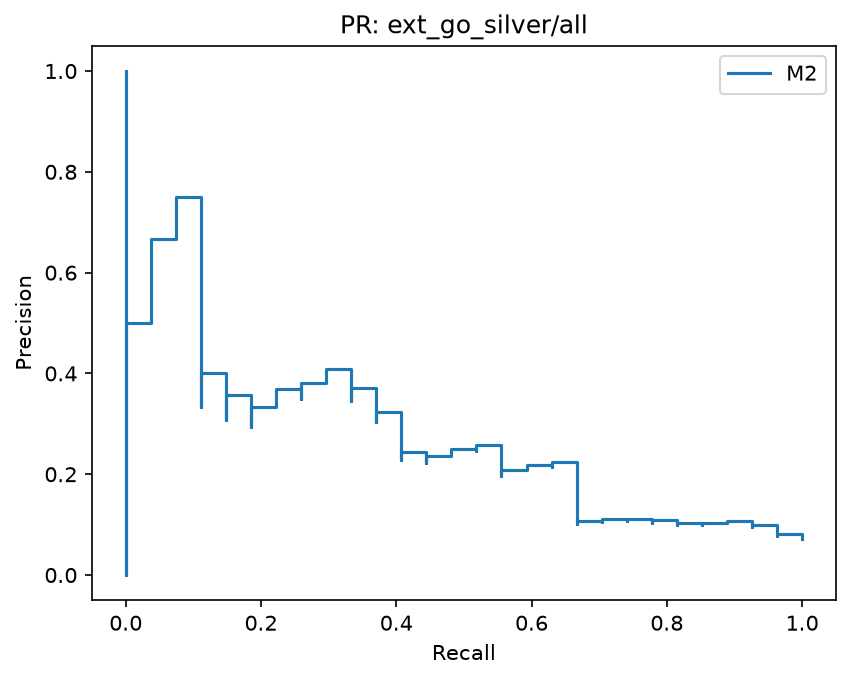
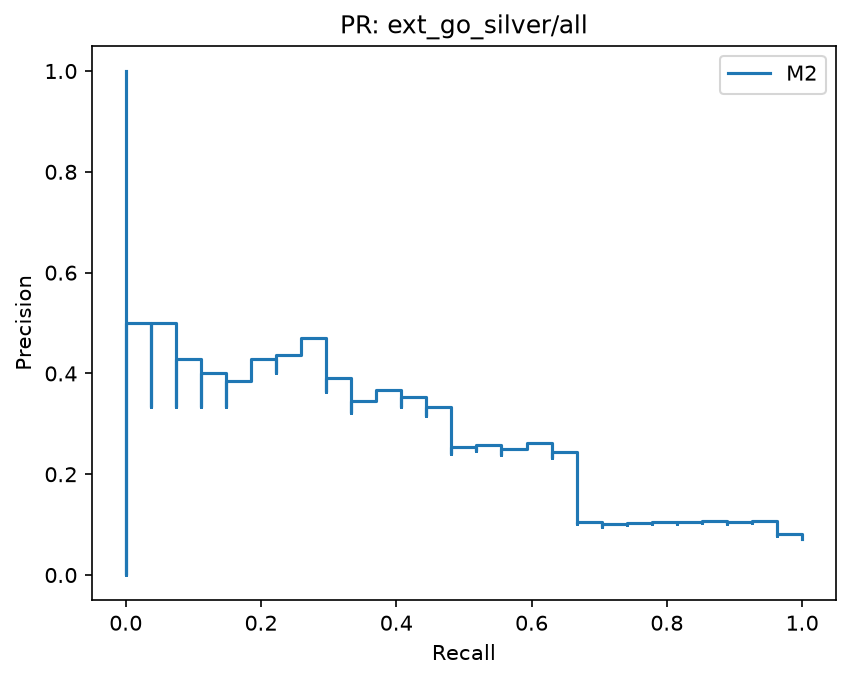
fix(data): CI без gdown, чистая Go-сигнатура, каппа без warning
- download_cocc: ленивый импорт gdown, CI падал на сборе тестов.
- external_adapter: generic_pair принимает sig_old, Go пишет чистую AST-сигнатуру; M2 Go репредикт 380: recall 0.111-0.333, F1 0.171-0.353.
- combine_go: каппа nan при одном классе без warning.

Refs: FD-39

diff --git a/scripts/combine_go.py b/scripts/combine_go.py
@@ -13,7 +13,7 @@ reports/go_full381_disputes.csv (споры + тексты для ручного
 reports/go_full381_disputes_blind.csv (--export-blind: строго слепой файл споров:
 id,file,symbol,sig_old,diff_code,doc_old + пустые label/stale_statement/why;
 без прокси/меток/скоров),
-каппа Коэна (4-класс и бинарная A/B→1, C→0; строки с D из бинарной исключаются
+каппа Коэна (4-класс и бинарная A/B->1, C->0; строки с D из бинарной исключаются
 со счётчиком и WARNING).
 Порог согласия >= 0.7 — критерий приёмки, иначе ненулевой exit-код.
 Доля D у каждого судьи должна быть < 10%, иначе WARNING.
@@ -200,8 +200,10 @@ def main() -> int:
             print(f"доля D у {tag}: {frac:.3f} ({n_d}/{len(combined)})")
     try:
         from sklearn.metrics import cohen_kappa_score
-        k4 = cohen_kappa_score(combined["spark"].tolist(),
-                              combined["gemini"].tolist(), labels=list(VALID))
+        classes_present = set(combined["spark"].tolist()) | set(combined["gemini"].tolist())
+        k4 = (cohen_kappa_score(combined["spark"].tolist(),
+                               combined["gemini"].tolist(), labels=list(VALID))
+              if len(classes_present) > 1 else float("nan"))
         bmap = {"A": 1, "B": 1, "C": 0}
         n_drop_d = int(((~combined["spark"].isin(bmap)) |
                         (~combined["gemini"].isin(bmap))).sum())
@@ -210,8 +212,9 @@ def main() -> int:
                   f"(бинарная шкала A/B->1, C->0; D — не консенсус)")
         pairs = [(bmap[s], bmap[g]) for s, g in
                  zip(combined["spark"], combined["gemini"]) if s in bmap and g in bmap]
+        labels_present = {p[0] for p in pairs} | {p[1] for p in pairs}
         kb = (cohen_kappa_score([p[0] for p in pairs], [p[1] for p in pairs], labels=[0, 1])
-              if pairs else float("nan"))
+              if len(labels_present) > 1 else float("nan"))
         print(f"spark-vs-gemini: n={len(combined)}, согласие {agree:.3f}, "
               f"kappa4={k4:.3f}, kappa_bin={kb:.3f}")
     except ImportError:

diff --git a/tests/test_fd39_fixes.py b/tests/test_fd39_fixes.py
@@ -20,8 +20,21 @@ from evaluate import resolve_splits  # noqa: E402
 from m3_judge import cmd_export_external  # noqa: E402
 from src.data.external_adapter import (  # noqa: E402
     cocc_code_has_docstring_block,
+    go_record_to_pair,
     jit_record_to_pair,
 )
+
+
+def test_go_keeps_clean_sig_old_without_brace():
+    row = {"repo": "gin", "symbol": "Context.Get",
+           "commit_new": "c1",
+           "code_old": "func (c *Context) Get(key string) int {\n\treturn 1\n}",
+           "code_new": "func (c *Context) Get(key any) int {\n\treturn 1\n}",
+           "doc_old": "Get returns a value.",
+           "sig_old": "func (c *Context) Get(key string) int"}
+    pair = go_record_to_pair(row, 0)
+    assert pair["sig_old"] == "func (c *Context) Get(key string) int"
+    assert not pair["sig_old"].endswith("{")
 
 
 # ---------- build_external: D-консенсус, хэши ----------

diff --git a/src/data/external_adapter.py b/src/data/external_adapter.py
@@ -85,12 +85,13 @@ def generic_pair(
     label_source: str,
     split: str,
     doc_new: str = "",
+    sig_old: str = "",
 ) -> dict[str, Any]:
     """Собрать строку схемы R1 из сырых текстов (без фильтров R1)."""
     code_old = code_old or ""
     code_new = code_new or ""
     doc_old = doc_old or ""
-    sig_old = java_sig_heuristic(code_old)
+    sig_old = sig_old or java_sig_heuristic(code_old)
     diff_code = raw_unified_diff(code_old, code_new)
     n_src_lines = len(code_old.splitlines()) + len(doc_old.splitlines())
     return {
@@ -268,4 +269,5 @@ def go_record_to_pair(row: dict[str, Any], proxy_label: int) -> dict[str, Any]:
         label_source="go_silver_proxy",
         split="ext_go_silver",
         doc_new="",
+        sig_old=str(row.get("sig_old") or ""),
     )

diff --git a/scripts/download_cocc.py b/scripts/download_cocc.py
@@ -20,8 +20,6 @@ PROJECT_ROOT = Path(__file__).resolve().parent.parent
 if str(PROJECT_ROOT) not in sys.path:
     sys.path.insert(0, str(PROJECT_ROOT))
 
-import gdown  # noqa: E402
-
 
 def load_ids(path: Path) -> list[tuple[str, str]]:
     """Пары (fileId, имя) из ids-файла; пустые строки пропускаются."""
@@ -57,6 +55,10 @@ def main() -> int:
 
     out = Path(args.out)
     out.mkdir(parents=True, exist_ok=True)
+    try:
+        import gdown
+    except ImportError:
+        raise SystemExit("Нет модуля gdown: pip install gdown (нужен только для докачки CoCC)")
     have = {p.name for p in out.glob("*.py")}
     print(f"Всего id: {len(pairs)}, уже на диске: {len(have)}, цель новых: {args.n}")
 
